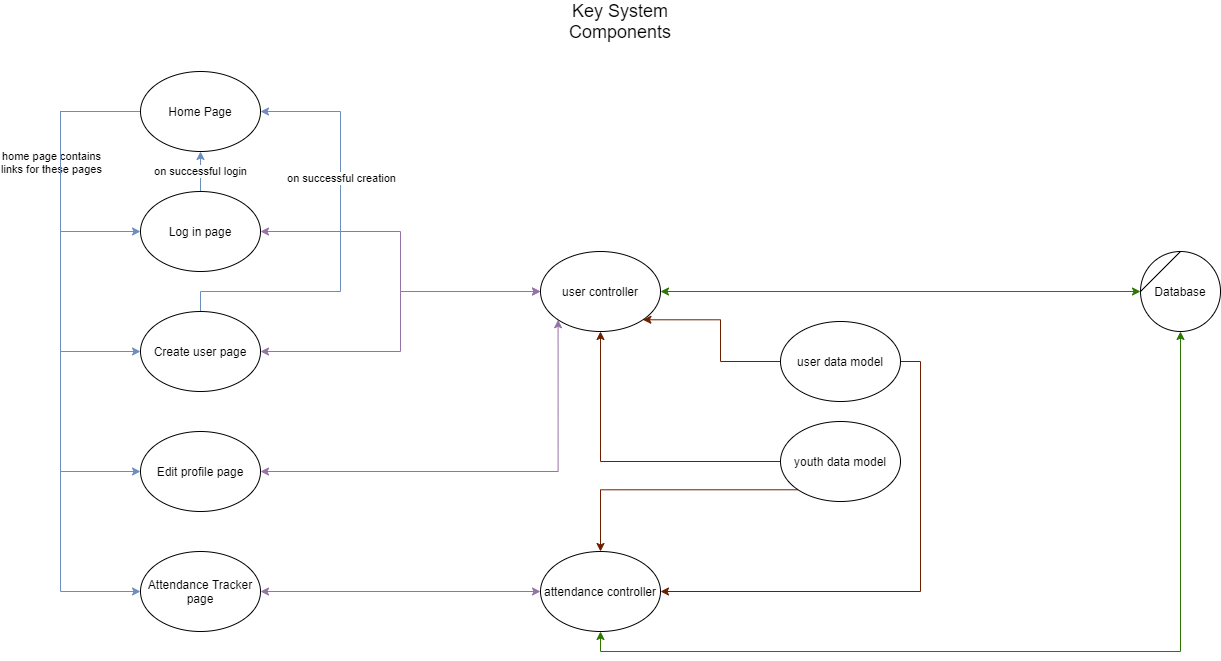
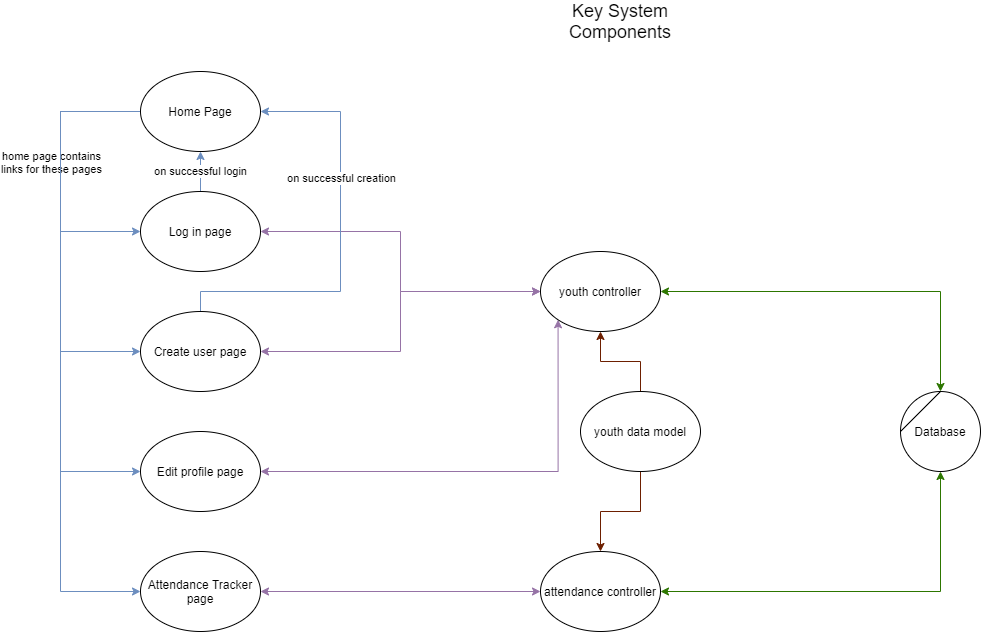
i broke something

diff --git a/models/Youth.js b/models/Youth.js
@@ -2,61 +2,67 @@ const mongoose = require("mongoose");
 const { Schema } = mongoose;
 const bcrypt = require('bcrypt');
 
-const youthSchema = new Schema(
-  {
-    youth_email: { type: String, required: [true, 'email is required'], unique: true },
-    password: { type: String, required: [true, 'password is required'], minlength: [7, "Name must be 8 characters long"] },
-    youthFullName: {type: String, required: [true, 'name is required'], unique: false},
-    youth_Gender: {type: String, required: false, unique: false},
-    parentsEmail: {type: String, required: [true, 'parents email is required'], unique: false},
-    youth_MedicinalRequirements: {type: String, required: false, unique: false},
-    youth_Allergies: {type: String, required: false, unique: false},
-    youth_DoB: {type: String, required: false, unique: false},
-    youth_OtherNotes: {type: String, required: false, unique: false},
-    interest: {type: Array, required: [true, 'Please enter at least one interest'], unique: false},
-    attendance: {type: Array, required: true, unique: false}
-  },
-  { timestamps: true }
-);
-
-youthSchema.pre('save', async function (next) {
-    //logging
-    //console.log(this.password); //this is bad practice, DO NOT DO IN PRODUCTION!!
-
-    try{
-        const hash = await bcrypt.hash(this.password, 10);
-        this.password = hash;
-        console.log(this.password);
-        next();
+console.log("creating schema");
+try{
+    const youthSchema = new Schema(
+    {
+        youth_email: { type: String, required: [true, 'email is required'], unique: true },
+        password: { type: String, required: [true, 'password is required'], minlength: [7, "Name must be 8 characters long"] },
+        youth_FullName: {type: String, required: [true, 'name is required'], unique: false},
+        youth_Gender: {type: String, required: false, unique: false},
+        parentsEmail: {type: String, required: [true, 'parents email is required'], unique: false},
+        youth_MedicinalRequirements: {type: String, required: false, unique: false},
+        youth_Allergies: {type: String, required: false, unique: false},
+        youth_DoB: {type: String, required: false, unique: false},
+        youth_OtherNotes: {type: String, required: false, unique: false},
+        interest: {type: Array, required: [true, 'Please add an interest'], unique: false},
+        attendance: {type: Array, required: true, unique: false}
     }
-    catch(e) {
-        throw Error('could not hash password');
-    }
+    );
 
-    try{
-        Date.prototype.addDays = function(days) {
-            var date = new Date(this.valueOf());
-            date.setDate(date.getDate() + days);
-            return date;
+    youthSchema.pre('save', async function (next) {
+
+        try{
+            console.log("creating hashed password array");
+            const hash = await bcrypt.hash(this.password, 10);
+            this.password = hash;
+            console.log(this.password);
+            next();
         }
-    
-        var date = new Date("2020-11-22");
-        var attendanceArray = []; 
-    
-        var i = 0;
-        while(i < 100) {
-            date = date.addDays(7);
-            var subWeekArray = [date.toString(), "false"];
-            attendanceArray.push(subWeekArray);
-    
-            i++;
+        catch(e) {
+            throw Error('could not hash password');
         }
-    
-        this.attendance = attendanceArray;
-    }
-    catch(ex){
-        throw Error('could not create attendance array');
-    }
-})
+        
+        try{
+            console.log("creating attendance array");
+            Date.prototype.addDays = function(days) {
+                var date = new Date(this.valueOf());
+                date.setDate(date.getDate() + days);
+                return date;
+            }
+        
+            var date = new Date("2020-11-22");
+            var attendanceArray = []; 
+        
+            var i = 0;
+            while(i < 100) {
+                date = date.addDays(7);
+                var subWeekArray = [date.toString(), "false"];
+                attendanceArray.push(subWeekArray);
+        
+                i++;
+            }
+        
+            this.attendance = attendanceArray;
+            next();
+        }
+        catch(ex){
+            throw Error('could not create attendance array');
+        }
+    })
 
-module.exports = mongoose.model("Youth", youthSchema);
+    module.exports = mongoose.model("Youth", youthSchema);
+}
+catch(ex){
+    console.log(ex);
+}

diff --git a/controllers/youth.js b/controllers/youth.js
@@ -1,16 +1,16 @@
-const User = require('../models/Youth');
+const Youth = require('../models/Youth');
 const bcrypt = require('bcrypt');
 const { request } = require('express');
 
 exports.login = async (req, res) => {
     try {
-        const user = await User.findOne({ youth_email: req.body.email });
-        if (!user) {
+        const youth = await Youth.findOne({ youth_email: req.body.email });
+        if (!youth) {
             res.render('login-user', { errors: { email: { message: 'email not found' } } })
             return;
         }
 
-        const match = await bcrypt.compare(req.body.password, user.password);
+        const match = await bcrypt.compare(req.body.password, youth.password);
         
         if (match) {
             req.session.userID = user._id;
@@ -32,8 +32,47 @@ exports.login = async (req, res) => {
 
 exports.create = async (req, res) => {
     try{
-        const user = new User({email: req.body.email, password: req.body.password});
-        await user.save();
+        console.log("hit");
+        //default values of non-essential inputs
+        var youth_Gender = "Not Known";
+        var youth_MedicinalRequirements = "N/A";
+        var youth_Allergies = "N/A";
+        var youth_DoB = "N/A";
+        var youth_OtherNotes = "N/A";
+        var interests = new Array (req.body.interests);
+
+        if (req.body.youthGender =="") {
+            youth_Gender = req.body.youthGender;
+        }
+        if (req.body.youth_MedicinalRequirements == "") {
+            youth_MedicinalRequirements = req.body.youth_MedicinalRequirements;
+        }
+        if (req.body.youth_Allergies == "") {
+            youth_Allergies = req.body.youth_Allergies;
+        }
+        if (req.body.youth_DoB == "") {
+            youth_DoB = req.body.youth_DoB;
+        }
+        if (req.body.youthOtherNotes == "") {
+            youth_OtherNotes = req.body.youthOtherNotes;
+        }
+
+        console.log("hit defaults");
+        const youth = new Youth({
+            youth_email: req.body.email, 
+            password: req.body.password, 
+            parentsEmail: req.body.parentsEmail,
+            youth_FullName: req.body.youthFullName,
+            youth_Gender: youth_Gender,
+            youth_MedicinalRequirements: youth_MedicinalRequirements,
+            youth_Allergies: youth_Allergies,
+            youth_DoB: youth_DoB,
+            youthOtherNotes: youth_OtherNotes,
+            interests: interests
+        });
+        console.log("saving");
+        await youth.save();
+        console.log("saved");
         res.redirect('/?message=account created');
     }
     catch(e){

diff --git a/controllers/quote.js b/controllers/quote.js
@@ -2,7 +2,7 @@ exports.quote = async (req, res) => {
     console.info(req.session);
     const Quote = require('../models/Quote');
     allQuote = await Quote.find({}, '-_id').select('Quote');
-    console.info(allQuote);
+    //console.info(allQuote);
     var randomElement = allQuote[Math.floor(Math.random() * allQuote.length)];
     randomElement = randomElement.toString().replace("{", "");
     randomElement = randomElement.toString().replace("}", "");
